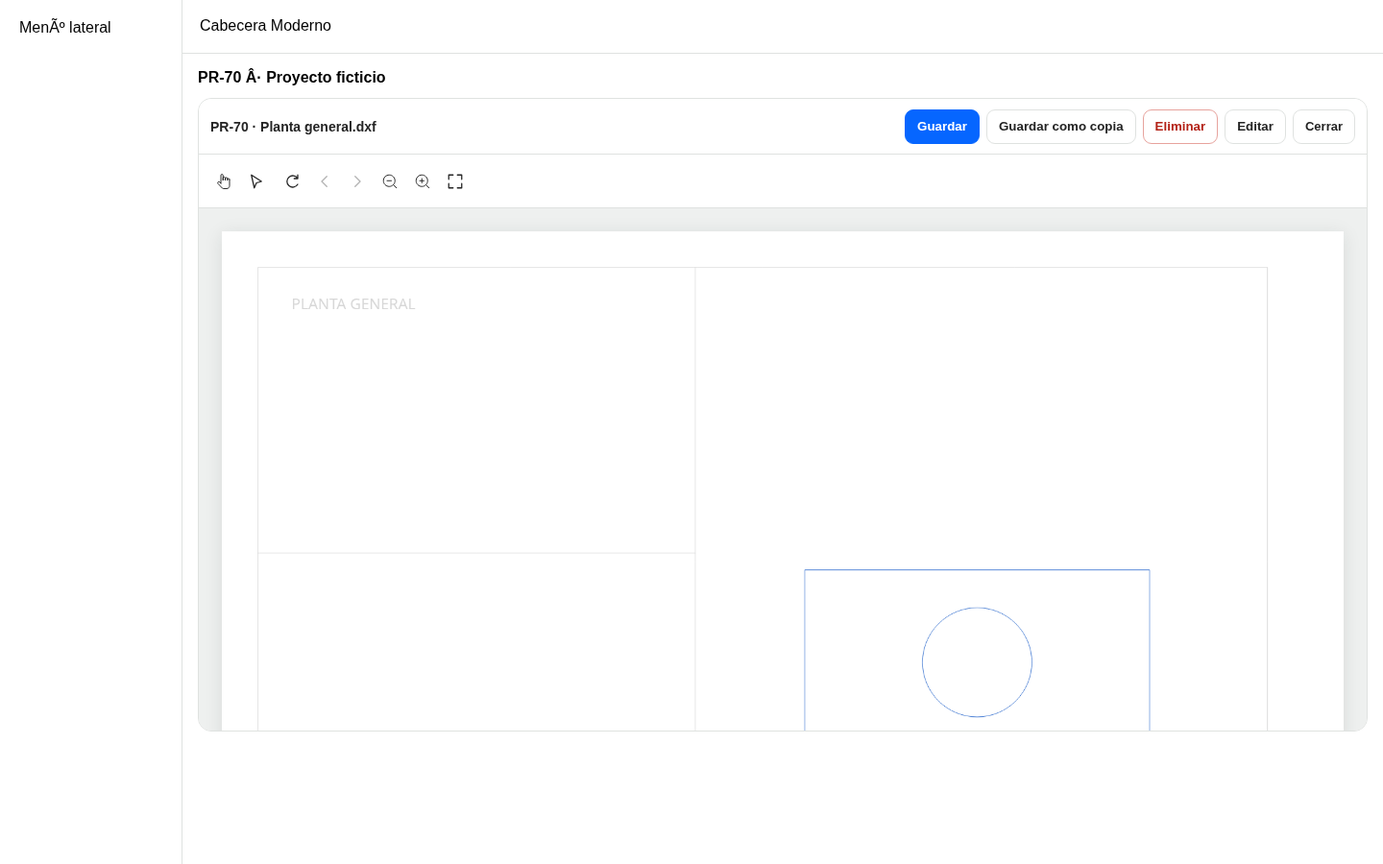
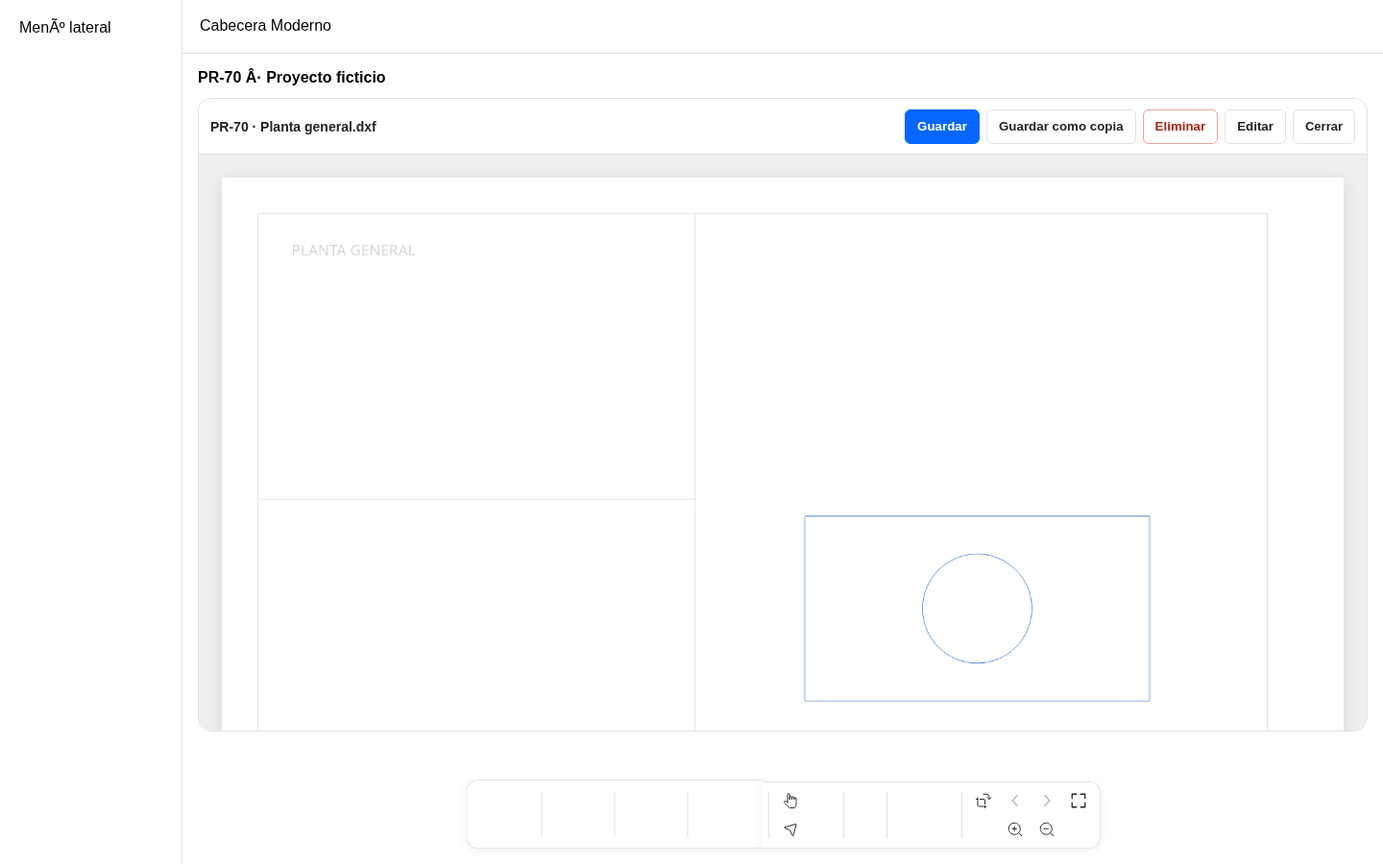
Integrar herramientas de planos en el dock

diff --git a/app/plan-editor.js b/app/plan-editor.js
@@ -48,10 +48,14 @@ var ModernoPlanEditor=(()=>{
  }
  async function mount(root,{document:doc,model,onError=()=>{},readOnly=Boolean(doc.readOnly),products=[]}){
   model.check();let page=1,zoom=1,tool=null,draft=null,pointer=null,closed=false,sequence=0,busy=false,pendingTextPoint=null,pendingCommentPoint=null,pendingTagPoint=null;const listeners=[],rotations=new Map(),touches=new Map(),images=new Map(),transientTimers=new Set();let gesture=null,photoBusy=false,photoSequence=0,thumbnailQueue=Promise.resolve();
-  root.classList.add('plan-editor');root.classList.toggle('is-readonly',readOnly);root.innerHTML=`<h2>Plano</h2><div class="plan-viewer-bar"><div class="plan-toolbox"><div class="plan-palette" role="group" aria-label="Color y grosor"></div><div class="plan-toolbar" role="group" aria-label="Herramientas"></div></div><div class="plan-toolbar plan-navigation" role="group" aria-label="Navegación, zoom y descarga"></div></div><textarea class="plan-inline-text" aria-label="Texto en el plano" placeholder="Escribe aquí" maxlength="1000" hidden></textarea><div class="plan-viewport" tabindex="0" aria-label="Área del plano"><div class="plan-paper"><div class="plan-sheet"><canvas></canvas><canvas tabindex="0" aria-label="Lienzo de anotación"></canvas><svg class="plan-pointer-layer" viewBox="0 0 100 100" preserveAspectRatio="none" aria-hidden="true"></svg></div></div></div><aside class="plan-info-panel" id="plan-info-panel" aria-label="Panel del plano" aria-hidden="true" inert><header><strong data-panel-title>Comentarios</strong><button type="button" class="plan-info-close" aria-label="Cerrar panel">×</button></header><form class="plan-comment-composer" hidden><label for="plan-comment-text">Comentario</label><textarea id="plan-comment-text" maxlength="1000" placeholder="Escribe un comentario"></textarea><div><button type="button" class="btn btn-ghost" data-comment-cancel>Cancelar</button><button type="submit" class="btn btn-dark">Añadir comentario</button></div></form><div class="plan-comments-list" role="list" aria-label="Comentarios del plano"></div><div class="plan-products-list" role="listbox" aria-label="Productos del proyecto" hidden></div></aside><p class="plan-status" role="status" aria-live="polite"></p>`;
-  const $=s=>root.querySelector(s),toolbar=$('.plan-toolbar'),nav=$('.plan-navigation'),base=$('canvas'),overlay=$('canvas+canvas'),paper=$('.plan-paper'),sheet=$('.plan-sheet'),viewport=$('.plan-viewport'),status=$('.plan-status'),text=$('.plan-inline-text'),pointerLayer=$('.plan-pointer-layer'),infoPanel=$('.plan-info-panel'),commentsList=$('.plan-comments-list'),productsList=$('.plan-products-list'),commentForm=$('.plan-comment-composer'),commentText=$('#plan-comment-text'),panelTitle=$('[data-panel-title]');
+  root.classList.add('plan-editor');root.classList.toggle('is-readonly',readOnly);root.innerHTML=`<h2>Plano</h2><div class="plan-viewer-bar" aria-label="Herramientas del plano"><div class="plan-toolbox"><div class="plan-tool-group plan-palette" role="group" aria-label="Color y grosor"></div><span class="plan-tool-separator" role="separator" aria-orientation="vertical"></span><div class="plan-tool-group plan-tools-primary" role="group" aria-label="Selección y texto"></div><span class="plan-tool-separator" role="separator" aria-orientation="vertical"></span><div class="plan-tool-group plan-tools-comments" role="group" aria-label="Comentarios y etiquetas"></div><span class="plan-tool-separator" role="separator" aria-orientation="vertical"></span><div class="plan-tool-group plan-tools-history" role="group" aria-label="Historial y borrado"></div><span class="plan-tool-separator" role="separator" aria-orientation="vertical"></span><div class="plan-tool-group plan-navigation" role="group" aria-label="Páginas, zoom y descarga"></div></div></div><textarea class="plan-inline-text" aria-label="Texto en el plano" placeholder="Escribe aquí" maxlength="1000" hidden></textarea><div class="plan-viewport" tabindex="0" aria-label="Área del plano"><div class="plan-paper"><div class="plan-sheet"><canvas></canvas><canvas tabindex="0" aria-label="Lienzo de anotación"></canvas><svg class="plan-pointer-layer" viewBox="0 0 100 100" preserveAspectRatio="none" aria-hidden="true"></svg></div></div></div><aside class="plan-info-panel" id="plan-info-panel" aria-label="Panel del plano" aria-hidden="true" inert><header><strong data-panel-title>Comentarios</strong><button type="button" class="plan-info-close" aria-label="Cerrar panel">×</button></header><form class="plan-comment-composer" hidden><label for="plan-comment-text">Comentario</label><textarea id="plan-comment-text" maxlength="1000" placeholder="Escribe un comentario"></textarea><div><button type="button" class="btn btn-ghost" data-comment-cancel>Cancelar</button><button type="submit" class="btn btn-dark">Añadir comentario</button></div></form><div class="plan-comments-list" role="list" aria-label="Comentarios del plano"></div><div class="plan-products-list" role="listbox" aria-label="Productos del proyecto" hidden></div></aside><p class="plan-status" role="status" aria-live="polite"></p>`;
+  const $=s=>root.querySelector(s),bar=$('.plan-viewer-bar'),toolbar=$('.plan-tools-primary'),commentTools=$('.plan-tools-comments'),historyTools=$('.plan-tools-history'),nav=$('.plan-navigation'),base=$('canvas'),overlay=$('canvas+canvas'),paper=$('.plan-paper'),sheet=$('.plan-sheet'),viewport=$('.plan-viewport'),status=$('.plan-status'),text=$('.plan-inline-text'),pointerLayer=$('.plan-pointer-layer'),infoPanel=$('.plan-info-panel'),commentsList=$('.plan-comments-list'),productsList=$('.plan-products-list'),commentForm=$('.plan-comment-composer'),commentText=$('#plan-comment-text'),panelTitle=$('[data-panel-title]');
   const listen=(el,event,fn,options)=>{el.addEventListener(event,fn,options);listeners.push(()=>el.removeEventListener(event,fn,options));};
   const report=e=>{status.textContent=e.message||String(e);onError(e);};
+  const projectDock=window.document.querySelector('.project-dock'),originalDockLeft=projectDock?.style.left||'',originalDockTransition=projectDock?.style.transition||'';
+  function positionDock(){const bounds=root.getBoundingClientRect(),dockWidth=projectDock?.offsetWidth||0;bar.style.width='';bar.style.maxWidth=Math.max(0,bounds.width-16)+'px';const barWidth=Math.min(bar.scrollWidth,bounds.width-16),combined=dockWidth+barWidth;if(projectDock&&combined<=bounds.width-16){const start=bounds.left+(bounds.width-combined)/2;projectDock.style.left=start+dockWidth/2+'px';bar.style.left=start+dockWidth-1+'px';bar.classList.remove('is-detached-compact');}else{bar.style.left=bounds.left+8+'px';bar.style.width=Math.max(0,bounds.width-16)+'px';bar.classList.add('is-detached-compact');}}
+  function enterDock(){window.document.body.classList.add('plan-editor-active');if(projectDock)projectDock.style.transition='left .22s ease';positionDock();requestAnimationFrame(()=>requestAnimationFrame(()=>bar.classList.add('is-mounted')));}
+  async function leaveDock(){bar.classList.remove('is-mounted');bar.classList.add('is-leaving');if(projectDock){projectDock.style.left=originalDockLeft;projectDock.style.transition=originalDockTransition;}window.document.body.classList.remove('plan-editor-active');if(!window.matchMedia('(prefers-reduced-motion: reduce)').matches)await new Promise(resolve=>setTimeout(resolve,220));}
   const paths={
    'Selector':'<path d="m5 3 14 9-7 2-3 7-4-18Z"/>',
    'Comentarios':'<path d="M4 4h16v12H9l-5 5V4Z M8 8h8 M8 12h5"/>',
@@ -79,21 +83,26 @@ var ModernoPlanEditor=(()=>{
    'Ajustar':'<path d="M9 3H3v6 M15 3h6v6 M3 15v6h6 M21 15v6h-6"/>',
    'Exportar PDF':'<path d="M12 3v12 m-5-5 5 5 5-5 M4 16v5h16v-5"/>'
   };
-  const iconFiles={'Lápiz':'Dibujar.svg','Flecha':'Flecha.svg','Desplazar':'Desplazar.svg','Comentarios':'Comentar.svg','Panel de comentarios':'Comentar.svg','Alejar':'zoom-out.svg','Acercar':'zoom-in.svg'};
-  function button(label,fn,parent=toolbar){const b=window.document.createElement('button'),asset=iconFiles[label];b.type='button';b.setAttribute('aria-label',label);b.title=label;b.className='plan-icon-button';b.innerHTML=asset?'<img src="/brand/icons/plan-viewer/'+asset+'?v=202" alt="" aria-hidden="true">':'<svg viewBox="0 0 24 24" fill="none" stroke="currentColor" stroke-width="1.7" stroke-linecap="round" stroke-linejoin="round" aria-hidden="true">'+(paths[label]||'')+'</svg>';listen(b,'click',async()=>{try{if(pointer!==null||touches.size||photoBusy)throw Error('Termina el trazo antes de cambiar de herramienta');await fn();}catch(e){report(e);}});parent.append(b);return b;}
+  const iconFiles={'Color':'Selector de Color.svg','Lápiz':'Dibujar.svg','Flecha':'Flecha.svg','Desplazar':'Desplazar.svg','Selector':'Selector.svg','Texto':'Texto.svg','Comentario':'Comentar.svg','Etiqueta de producto':'Etiqueta.svg','Borrador':'Borrar.svg','Girar 90°':'Girar.svg','Alejar':'zoom-out.svg','Acercar':'zoom-in.svg','Exportar PDF':'Descargar.svg'};
+  function button(label,fn,parent=toolbar){const b=window.document.createElement('button'),asset=iconFiles[label];b.type='button';b.setAttribute('aria-label',label);b.title=label;b.className='plan-icon-button';b.innerHTML=asset?'<img src="/brand/icons/plan-viewer/'+asset+'?v=203" alt="" aria-hidden="true">':'<svg viewBox="0 0 24 24" fill="none" stroke="currentColor" stroke-width="1.7" stroke-linecap="round" stroke-linejoin="round" aria-hidden="true">'+(paths[label]||'')+'</svg>';listen(b,'click',async()=>{try{if(pointer!==null||touches.size||photoBusy)throw Error('Termina el trazo antes de cambiar de herramienta');await fn();}catch(e){report(e);}});parent.append(b);return b;}
   function chooseTool(key){tool=tool===key?null:key;draft=null;pendingTextPoint=null;pendingCommentPoint=null;pendingTagPoint=null;text.hidden=true;redraw();}
-  const toolButtons={};(readOnly?['pan','selector']:['pan','selector','arrow','text','note','tag','erase']).forEach(key=>toolButtons[key]=button(labels[key],()=>chooseTool(key)));
+  const toolButtons={};(readOnly?['pan','selector']:['pan','selector','arrow','text']).forEach(key=>toolButtons[key]=button(labels[key],()=>chooseTool(key),toolbar));
+  if(!readOnly){for(const key of ['note','tag'])toolButtons[key]=button(labels[key],()=>chooseTool(key),commentTools);}
   const comments=toolButtons.note||null,tagButton=toolButtons.tag||null;
-  const palette=$('.plan-palette'),color=window.document.createElement('input');color.type='color';color.value='#242424';color.setAttribute('aria-label','Color');color.title='Color';if(!readOnly)palette.append(color);
-  const widthLabel=window.document.createElement('label');widthLabel.className='plan-width-label';widthLabel.textContent='Grosor';const width=window.document.createElement('input');width.type='range';width.min=1;width.max=12;width.value=3;width.setAttribute('aria-label','Grosor');widthLabel.append(width);if(!readOnly)palette.append(widthLabel);
-  const undo=readOnly?null:button('Deshacer',()=>{model.undo();redraw();}),redo=readOnly?null:button('Rehacer',()=>{model.redo();redraw();});
+  const palette=$('.plan-palette'),color=window.document.createElement('input'),alpha=window.document.createElement('input'),colorPanel=window.document.createElement('div');color.type='color';color.value='#242424';color.setAttribute('aria-label','Color personalizado');color.title='Color personalizado';alpha.type='range';alpha.min=0;alpha.max=100;alpha.value=100;alpha.setAttribute('aria-label','Opacidad');colorPanel.className='plan-color-panel';colorPanel.hidden=true;colorPanel.innerHTML='<strong>Color</strong><div class="plan-color-swatches" aria-label="Colores predefinidos"></div><label>Personalizado</label><label>Opacidad</label>';const swatches=colorPanel.querySelector('.plan-color-swatches'),swatchValues=['#ef4444','#f97316','#eab308','#22c55e','#06b6d4','#3b82f6','#8b5cf6','#ec4899'];let colorButton=null;
+  const syncColor=()=>{colorButton?.style.setProperty('--plan-selected-color',color.value);};
+  const currentColor=()=>color.value+(Number(alpha.value)<100?Math.round(Number(alpha.value)*2.55).toString(16).padStart(2,'0'):'');
+  if(!readOnly){colorButton=button('Color',()=>{colorPanel.hidden=!colorPanel.hidden;colorButton.setAttribute('aria-expanded',String(!colorPanel.hidden));},palette);colorButton.classList.add('plan-color-trigger');colorButton.setAttribute('aria-haspopup','dialog');colorButton.setAttribute('aria-expanded','false');for(const value of swatchValues){const swatch=window.document.createElement('button');swatch.type='button';swatch.className='plan-color-swatch';swatch.style.setProperty('--swatch',value);swatch.setAttribute('aria-label','Color '+value);listen(swatch,'click',()=>{color.value=value;syncColor();});swatches.append(swatch);}colorPanel.insertBefore(color,colorPanel.querySelectorAll('label')[1]);colorPanel.append(alpha);palette.append(colorPanel);listen(color,'input',syncColor);listen(window.document,'pointerdown',event=>{if(!colorPanel.hidden&&!palette.contains(event.target)){colorPanel.hidden=true;colorButton.setAttribute('aria-expanded','false');}});syncColor();}
+  const widthLabel=window.document.createElement('label');widthLabel.className='plan-width-label';widthLabel.innerHTML='<span>Grosor</span>';const width=window.document.createElement('input');width.type='range';width.min=1;width.max=12;width.value=3;width.step=.5;width.setAttribute('aria-label','Grosor');widthLabel.append(width);if(!readOnly)palette.append(widthLabel);
+  const undo=readOnly?null:button('Deshacer',()=>{model.undo();redraw();},historyTools),redo=readOnly?null:button('Rehacer',()=>{model.redo();redraw();},historyTools);if(!readOnly)toolButtons.erase=button(labels.erase,()=>chooseTool('erase'),historyTools);
   button('Girar 90°',()=>{if(busy)throw Error('Espera a que termine la página');model.check();rotations.set(page,((rotations.get(page)||0)+1)%4);zoom=1;size();redraw();status.textContent='Página girada · Se incluirá en el PDF exportado';},nav);
   const previous=button('Página anterior',()=>changePage(page-1),nav),next=button('Página siguiente',()=>changePage(page+1),nav);
-  button('Alejar',()=>{zoom=Math.max(.25,zoom-.25);size();},nav);button('Acercar',()=>{zoom=Math.min(4,zoom+.25);size();},nav);button('Ajustar',()=>{zoom=1;size();},nav);
+  const fit=button('Ajustar',()=>{zoom=1;size();},nav);button('Acercar',()=>{zoom=Math.min(4,zoom+.25);size();},nav);button('Alejar',()=>{zoom=Math.max(.25,zoom-.25);size();},nav);
   async function exportPdfBlob(){if(readOnly)throw Error('Este plano es de solo lectura');if(busy)throw Error('Espera a que termine la página');model.check();const record=model.snapshot(),angles=new Map(rotations),pages=[];let pixels=0,bytes=0;busy=true;
    try{for(let i=1;i<=doc.pages;i++){model.check();status.textContent='Preparando página '+i+' de '+doc.pages;const c=window.document.createElement('canvas');await doc.render(i,c);pixels+=c.width*c.height;if(pixels>100e6)throw Error('Guarda un documento más pequeño (límite de 100 megapíxeles)');draw(c.getContext('2d'),record.annotations.filter(a=>a.page===i),c.width,c.height,images);const t=angles.get(i)||0,output=rotateCanvas(c,t);const blob=await new Promise(r=>output.toBlob(r,'image/jpeg',.92));if(!blob)throw Error('No se pudo preparar el plano');bytes+=blob.size;if(bytes>100*1024*1024)throw Error('El plano preparado es demasiado grande');const dimensions=doc.pageSize?await doc.pageSize(i):null;pages.push({width:output.width,height:output.height,pageWidth:t%2?dimensions?.height:dimensions?.width,pageHeight:t%2?dimensions?.width:dimensions?.height,jpeg:new Uint8Array(await blob.arrayBuffer())});c.width=c.height=0;if(output!==c)output.width=output.height=0;}model.check();return pdf(pages);}finally{busy=false;}
   }
   if(!readOnly)button('Exportar PDF',async()=>{const blob=await exportPdfBlob(),url=URL.createObjectURL(blob),a=window.document.createElement('a');a.href=url;a.download='plano-anotado.pdf';a.click();setTimeout(()=>URL.revokeObjectURL(url),1000);status.textContent='PDF exportado';},nav);
+  listen(window,'resize',positionDock);enterDock();const lifecycle=new MutationObserver(()=>{if(root.isConnected||closed)return;closed=true;sequence++;void leaveDock();listeners.forEach(fn=>fn());cleanup();void doc.close?.();});lifecycle.observe(window.document.body,{childList:true,subtree:true});listeners.push(()=>lifecycle.disconnect());
   function showInfo(open,kind='comments'){infoPanel.classList.toggle('is-open',open);infoPanel.inert=!open;infoPanel.setAttribute('aria-hidden',String(!open));panelTitle.textContent=kind==='products'?'Elegir producto':'Comentario';commentsList.hidden=kind!=='comments';productsList.hidden=kind!=='products';commentForm.hidden=kind!=='comments'||!pendingCommentPoint;size();}
   listen($('.plan-info-close'),'click',()=>{pendingCommentPoint=null;pendingTagPoint=null;showInfo(false);});showInfo(false);
   async function loadImages(){for(const a of model.items.filter(a=>a.type==='image')){model.check();if(images.has(a.imageData))continue;const image=new Image();image.src=a.imageData;await image.decode();if(closed)return;model.check();const bitmap=await createImageBitmap(image);if(bitmap.width*bitmap.height>20e6){bitmap.close();throw Error('Foto demasiado grande');}images.set(a.imageData,bitmap);}}
@@ -123,12 +132,12 @@ var ModernoPlanEditor=(()=>{
   function pointAt(e){return sourcePoint(ModernoPlanAnnotations.point(e.clientX,e.clientY,overlay.getBoundingClientRect()),rotations.get(page)||0);}
   let commentsSignature='';
   function syncComments(){const notes=model.items.filter(a=>a.type==='note'),signature=JSON.stringify(notes.map(a=>[a.id,a.page,a.text]));if(signature===commentsSignature)return;commentsSignature=signature;commentsList.replaceChildren();notes.forEach(note=>{const b=window.document.createElement('button'),label=window.document.createElement('span'),where=window.document.createElement('small');b.type='button';b.setAttribute('role','listitem');label.textContent=note.text;where.textContent='Página '+note.page;b.append(label,where);b.onclick=()=>{showInfo(true,'comments');changePage(note.page).catch(report);};commentsList.append(b);});if(!notes.length){const empty=window.document.createElement('p');empty.className='plan-panel-empty';empty.textContent='Aún no hay comentarios.';commentsList.append(empty);}}
-  productsList.replaceChildren();products.forEach(product=>{const b=window.document.createElement('button'),name=window.document.createElement('strong'),meta=window.document.createElement('small');b.type='button';b.setAttribute('role','option');name.textContent=product.name;meta.textContent=[product.room,product.reference].filter(Boolean).join(' · ');b.append(name,meta);listen(b,'click',()=>{if(!pendingTagPoint)return;model.add({id:crypto.randomUUID(),page,type:'tag',color:color.value,width:Number(width.value),points:[pendingTagPoint],text:product.name,product:{id:String(product.id),name:product.name,room:product.room||'',reference:product.reference||''},createdAt:new Date().toISOString()});pendingTagPoint=null;tool=null;showInfo(false);redraw();status.textContent='Etiqueta de producto añadida';});productsList.append(b);});
+  productsList.replaceChildren();products.forEach(product=>{const b=window.document.createElement('button'),name=window.document.createElement('strong'),meta=window.document.createElement('small');b.type='button';b.setAttribute('role','option');name.textContent=product.name;meta.textContent=[product.room,product.reference].filter(Boolean).join(' · ');b.append(name,meta);listen(b,'click',()=>{if(!pendingTagPoint)return;model.add({id:crypto.randomUUID(),page,type:'tag',color:currentColor(),width:Number(width.value),points:[pendingTagPoint],text:product.name,product:{id:String(product.id),name:product.name,room:product.room||'',reference:product.reference||''},createdAt:new Date().toISOString()});pendingTagPoint=null;tool=null;showInfo(false);redraw();status.textContent='Etiqueta de producto añadida';});productsList.append(b);});
   if(!products.length){const empty=window.document.createElement('p');empty.className='plan-panel-empty';empty.textContent='No hay productos en las listas de la compra de este proyecto.';productsList.append(empty);}
   function placeTextEditor(point,event){pendingTextPoint=point;text.hidden=false;text.value='';const rootRect=root.getBoundingClientRect();text.style.left=Math.max(8,Math.min(rootRect.width-230,event.clientX-rootRect.left+8))+'px';text.style.top=Math.max(58,Math.min(rootRect.height-100,event.clientY-rootRect.top+8))+'px';requestAnimationFrame(()=>text.focus());}
-  function commitText(){const value=text.value.trim();if(value&&pendingTextPoint)model.add({id:crypto.randomUUID(),page,type:'text',color:color.value,width:Number(width.value),points:[pendingTextPoint],text:value,createdAt:new Date().toISOString()});pendingTextPoint=null;text.value='';text.hidden=true;tool=null;redraw();}
+  function commitText(){const value=text.value.trim();if(value&&pendingTextPoint)model.add({id:crypto.randomUUID(),page,type:'text',color:currentColor(),width:Number(width.value),points:[pendingTextPoint],text:value,createdAt:new Date().toISOString()});pendingTextPoint=null;text.value='';text.hidden=true;tool=null;redraw();}
   listen(text,'keydown',event=>{if(event.key==='Escape'){event.preventDefault();pendingTextPoint=null;text.hidden=true;tool=null;redraw();}else if(event.key==='Enter'&&!event.shiftKey){event.preventDefault();commitText();}});listen(text,'blur',()=>{if(pendingTextPoint)commitText();});
-  listen(commentForm,'submit',event=>{event.preventDefault();const value=commentText.value.trim();if(!pendingCommentPoint||!value)return;model.add({id:crypto.randomUUID(),page,type:'note',color:color.value,width:Number(width.value),points:[pendingCommentPoint],text:value,createdAt:new Date().toISOString()});pendingCommentPoint=null;commentText.value='';commentForm.hidden=true;tool=null;redraw();status.textContent='Comentario añadido';});
+  listen(commentForm,'submit',event=>{event.preventDefault();const value=commentText.value.trim();if(!pendingCommentPoint||!value)return;model.add({id:crypto.randomUUID(),page,type:'note',color:currentColor(),width:Number(width.value),points:[pendingCommentPoint],text:value,createdAt:new Date().toISOString()});pendingCommentPoint=null;commentText.value='';commentForm.hidden=true;tool=null;redraw();status.textContent='Comentario añadido';});
   listen($('[data-comment-cancel]'),'click',()=>{pendingCommentPoint=null;commentText.value='';tool=null;showInfo(false);redraw();});
   function redraw(){if(closed)return;if(root.dataset.cursorPage!==String(page)||root.dataset.cursorRotation!==String(rotations.get(page)||0)){root.dataset.cursorPage=String(page);root.dataset.cursorRotation=String(rotations.get(page)||0);window.document.dispatchEvent(new Event('moderno:cursor-context'));}overlay.getContext('2d').clearRect(0,0,overlay.width,overlay.height);draw(overlay.getContext('2d'),model.items.filter(a=>a.page===page).concat(draft&&!draft.pan&&!draft.selector?[draft]:[]),overlay.width,overlay.height,images);comments?.setAttribute('aria-pressed',tool==='note');tagButton?.setAttribute('aria-pressed',tool==='tag');Object.entries(toolButtons).forEach(([k,b])=>b.setAttribute('aria-pressed',k===tool));if(undo)undo.disabled=!model.undoStack.length;if(redo)redo.disabled=!model.redoStack.length;previous.disabled=page<=1;next.disabled=page>=doc.pages;syncComments();}
   async function changePage(n){if(n<1||n>doc.pages||busy)return;if(pointer!==null||touches.size||photoBusy)throw Error('Termina el trazo antes de cambiar de página');model.check();busy=true;const token=++sequence;
@@ -144,7 +153,7 @@ var ModernoPlanEditor=(()=>{
    if(tool==='text'){pointer=null;placeTextEditor(p,e);return;}
    if(tool==='note'){pointer=null;pendingCommentPoint=p;showInfo(true,'comments');commentForm.hidden=false;requestAnimationFrame(()=>commentText.focus());return;}
    if(tool==='tag'){pointer=null;pendingTagPoint=p;showInfo(true,'products');return;}
-   draft={id:crypto.randomUUID(),page,type:tool,color:color.value,width:Number(width.value),points:[p],text:'',createdAt:new Date().toISOString()};redraw();
+   draft={id:crypto.randomUUID(),page,type:tool,color:currentColor(),width:Number(width.value),points:[p],text:'',createdAt:new Date().toISOString()};redraw();
   }catch(e){pointer=null;report(e);}});
   listen(overlay,'pointermove',e=>{try{
    if(touches.has(e.pointerId)){model.check();touchMove(e);e.preventDefault();return;}if(e.pointerId!==pointer||!draft)return;
@@ -159,9 +168,9 @@ var ModernoPlanEditor=(()=>{
   listen(root,'keydown',e=>{if(e.key==='Escape'&&infoPanel.classList.contains('is-open')){e.preventDefault();e.stopPropagation();pendingCommentPoint=null;pendingTagPoint=null;showInfo(false);return;}if(/INPUT|TEXTAREA|SELECT/.test(e.target.tagName))return;try{if((e.ctrlKey||e.metaKey)&&e.key.toLowerCase()==='z'){e.preventDefault();e.shiftKey?model.redo():model.undo();redraw();}}catch(error){report(error);}});
   listen(viewport,'wheel',e=>{if(!e.ctrlKey&&!e.metaKey)return;e.preventDefault();zoom=Math.max(.25,Math.min(4,zoom+(e.deltaY<0?.15:-.15)));size();},{passive:false});
   listen(window,'beforeunload',e=>{if(!readOnly&&(model.dirty||(draft&&!draft.pan&&!draft.selector))){e.preventDefault();e.returnValue='';}});
-  const resize=new ResizeObserver(size);resize.observe(viewport);resize.observe($('.plan-toolbox'));resize.observe(text);
-  try{await loadImages();await changePage(1);}catch(error){closed=true;listeners.forEach(fn=>fn());resize.disconnect();cleanup();await doc.close?.();throw error;}
-  return {exportPdf:exportPdfBlob,markSaved(){model.dirty=false;model.undoStack=[];model.redoStack=[];redraw();},async close(){if(model.dirty||(draft&&!draft.pan&&!draft.selector))throw Error('Hay anotaciones pendientes: exporta o guarda antes de cerrar');closed=true;sequence++;listeners.forEach(fn=>fn());resize.disconnect();cleanup();await doc.close?.();root.replaceChildren();},discard:async()=>{closed=true;sequence++;listeners.forEach(fn=>fn());resize.disconnect();cleanup();await doc.close?.();root.replaceChildren();}};
+  const resize=new ResizeObserver(()=>{size();positionDock();});resize.observe(viewport);resize.observe($('.plan-toolbox'));resize.observe(text);
+  try{await loadImages();await changePage(1);}catch(error){closed=true;await leaveDock();listeners.forEach(fn=>fn());resize.disconnect();cleanup();await doc.close?.();throw error;}
+  return {exportPdf:exportPdfBlob,markSaved(){model.dirty=false;model.undoStack=[];model.redoStack=[];redraw();},async close(){if(model.dirty||(draft&&!draft.pan&&!draft.selector))throw Error('Hay anotaciones pendientes: exporta o guarda antes de cerrar');closed=true;sequence++;await leaveDock();listeners.forEach(fn=>fn());resize.disconnect();cleanup();await doc.close?.();root.replaceChildren();},discard:async()=>{closed=true;sequence++;await leaveDock();listeners.forEach(fn=>fn());resize.disconnect();cleanup();await doc.close?.();root.replaceChildren();}};
  }
  return {openFile,mount,draw,pdf,sourcePoint};
 })();

diff --git a/app/plan-editor.css b/app/plan-editor.css
@@ -100,3 +100,20 @@
 .plan-status{top:64px;right:12px}.plan-editor:has(.plan-info-panel.is-open) .plan-status{right:332px}
 .project-plan-alert-dialog{position:fixed;inset:0;width:min(410px,calc(100vw - 32px));max-height:calc(100dvh - 32px);margin:auto;padding:22px;border:1px solid var(--ui-line,#d8d3cc);border-radius:16px;background:var(--white,#fff);color:var(--ink,#242424);box-shadow:0 24px 70px #0004}.project-plan-alert-dialog::backdrop{background:#0006;backdrop-filter:blur(3px)}.project-plan-alert-header{display:flex;align-items:flex-start;gap:14px}.project-plan-alert-media{display:grid;place-items:center;flex:0 0 44px;width:44px;height:44px;border-radius:12px;background:#fef3f2;color:#b42318}.project-plan-alert-media svg{width:21px;height:21px}.project-plan-alert-dialog h3{margin:2px 0 7px;font-size:18px}.project-plan-alert-dialog p{margin:0;color:var(--ink-soft,#666);font-size:13px;line-height:1.55}.project-plan-alert-footer{display:flex;justify-content:flex-end;gap:8px;margin-top:22px}.project-plan-alert-footer .btn{min-height:38px;border-radius:9px}.project-plan-alert-delete{border:1px solid #b42318;background:#b42318;color:#fff}.project-plan-alert-delete:hover{background:#912018;border-color:#912018}
 @media(max-width:900px){.project-plan-dialog{height:calc(100dvh - 180px);min-height:480px}.project-plan-dialog>header{align-items:flex-start;flex-direction:column}.project-plan-dialog>header .plan-dialog-actions{width:100%;margin:0;overflow-x:auto}.plan-editor:has(.plan-info-panel.is-open) .plan-viewport{right:0}.plan-info-panel{width:min(340px,92%)}.plan-status,.plan-editor:has(.plan-info-panel.is-open) .plan-status{right:10px}}
+
+/* El editor prolonga el dock del proyecto con una sola caja de herramientas. */
+.project-plan-dialog>header .btn,.project-plan-alert-footer .btn{border-radius:6px}
+.plan-viewer-bar{position:fixed;z-index:71;right:auto;top:auto;bottom:calc(16px + env(safe-area-inset-bottom,0px));width:max-content;height:70px;max-width:calc(100vw - 24px);padding:4px 6px;border:1px solid #e4e4e4;border-left-color:transparent;border-radius:0 12px 12px 0;background:#fff;box-shadow:0 2px 10px #0000000f;overflow-x:auto;overflow-y:visible;opacity:0;transform:translateX(46px);transition:transform .22s cubic-bezier(.2,.75,.25,1),opacity .18s ease;scrollbar-width:none}
+.plan-viewer-bar::-webkit-scrollbar{display:none}.plan-viewer-bar.is-mounted{opacity:1;transform:translateX(0)}.plan-viewer-bar.is-leaving{opacity:0;transform:translateX(54px);pointer-events:none}.plan-viewer-bar.is-detached-compact{border-left-color:#e4e4e4;border-radius:12px}
+.plan-toolbox{display:flex;align-items:center;gap:6px;width:max-content;height:60px;min-width:0;margin:0;padding:0;border:0;border-radius:0;background:transparent;box-shadow:none;transform:none}
+.plan-tool-group{display:grid;grid-auto-flow:row;grid-template-rows:repeat(2,30px);align-items:center;gap:0 1px;flex:none;padding:0;border:0;overflow:visible}.plan-tool-separator{display:block;flex:0 0 1px;width:1px;height:48px;background:#e2e2df}
+.plan-tools-primary{grid-template-columns:repeat(2,32px)}.plan-tools-primary>:nth-child(1){grid-column:1;grid-row:1}.plan-tools-primary>:nth-child(2){grid-column:1;grid-row:2}.plan-tools-primary>:nth-child(3){grid-column:2;grid-row:1}.plan-tools-primary>:nth-child(4){grid-column:2;grid-row:2}
+.plan-tools-comments{grid-template-columns:32px}.plan-tools-history{grid-template-columns:repeat(2,32px)}.plan-tools-history>:nth-child(3){grid-column:1 / 3;justify-self:center}.plan-navigation{position:static;display:grid;grid-template-columns:repeat(4,32px);grid-template-rows:repeat(2,30px);gap:0 1px;max-width:none;padding:0;border:0;border-radius:0;background:transparent;box-shadow:none;overflow:visible}.plan-navigation>:nth-child(5){grid-column:2}.plan-navigation>:nth-child(6){grid-column:3}.plan-navigation>:nth-child(7){grid-column:4}
+.plan-editor .plan-icon-button{position:relative;display:grid;place-items:center;flex:0 0 32px;width:32px;height:30px;min-height:30px;margin:0;padding:6px;border:0;border-radius:7px;background:transparent;color:#242424}.plan-editor .plan-icon-button:hover{background:#f1f1ee}.plan-editor .plan-icon-button[aria-pressed=true]{background:#f1f3f5;box-shadow:inset 0 0 0 1px #e5e7eb}.plan-icon-button svg,.plan-icon-button img{display:block;width:18px;height:18px;object-fit:contain}.plan-icon-button:disabled{opacity:.42}
+.plan-palette{position:relative;grid-template-columns:84px;padding:0;border:0}.plan-palette>.plan-color-trigger{grid-row:1;justify-self:center}.plan-color-trigger::after{content:"";position:absolute;right:4px;bottom:4px;width:7px;height:7px;border:1px solid #fff;border-radius:50%;background:var(--plan-selected-color,#242424);box-shadow:0 0 0 1px #24242433}
+.plan-width-label{grid-row:2;display:grid;grid-template-columns:auto 1fr;align-items:center;gap:5px;width:84px;height:30px;padding:0 3px;font-size:10px;color:var(--ink-soft,#666);white-space:nowrap}.plan-editor .plan-width-label input[type=range]{width:48px;min-width:48px;height:12px;margin:0;padding:0;background:transparent;accent-color:#242424}.plan-width-label input[type=range]::-webkit-slider-runnable-track{height:2px;border-radius:2px;background:#bfc2c1}.plan-width-label input[type=range]::-webkit-slider-thumb{width:10px;height:10px;margin-top:-4px}.plan-width-label input[type=range]::-moz-range-track{height:2px;border-radius:2px;background:#bfc2c1}.plan-width-label input[type=range]::-moz-range-thumb{width:10px;height:10px;border:0;border-radius:50%;background:#242424}
+.plan-color-panel{position:absolute;left:0;bottom:calc(100% + 10px);z-index:90;display:grid;grid-template-columns:1fr auto;gap:10px 12px;width:250px;padding:14px;border:1px solid #e4e4e4;border-radius:10px;background:#fff;box-shadow:0 12px 34px #0002;color:#242424}.plan-color-panel[hidden]{display:none}.plan-color-panel>strong,.plan-color-swatches{grid-column:1 / -1}.plan-color-panel>strong{font-size:13px}.plan-color-panel>label{align-self:center;font-size:11px;color:#666}.plan-color-swatches{display:grid;grid-template-columns:repeat(8,1fr);gap:5px}.plan-color-swatch{width:22px;height:22px;padding:0;border:1px solid #0001;border-radius:6px;background:var(--swatch)}.plan-color-swatch:hover{outline:2px solid #242424;outline-offset:1px}.plan-color-panel input[type=color]{width:42px;height:30px;min-height:30px;padding:2px;border:1px solid #dfe2e0;border-radius:6px}.plan-color-panel input[type=range]{width:120px;min-width:120px;margin:0}
+.plan-viewport{top:0;padding-bottom:104px}.plan-pages-panel,.plan-info-panel{top:0}.plan-selection{top:12px}.plan-status{top:8px}.plan-editor textarea{top:12px}.plan-editor .project-plan-notice{bottom:94px}
+html body:not(.portalmode).plan-editor-active .project-tabs.project-dock{border-radius:12px 0 0 12px;border-right-color:transparent;box-shadow:0 2px 10px #0000000f}
+@media(max-width:900px){.plan-viewer-bar.is-detached-compact{bottom:calc(92px + env(safe-area-inset-bottom,0px))}.plan-viewport{padding-bottom:178px}}
+@media(prefers-reduced-motion:reduce){.plan-viewer-bar{transition:none}.plan-viewer-bar,.plan-viewer-bar.is-mounted,.plan-viewer-bar.is-leaving{transform:none}}

diff --git a/app/index.html b/app/index.html
@@ -1285,13 +1285,13 @@ html body:not(.portalmode) #view .account-icon-button.btn{width:28px!important;m
 <script src="/new-project.js?v=365133"></script>
 <script src="/shopping-export.js?v=365113"></script>
 <script src="/plan-annotations.js?v=36523"></script>
-<script src="/plan-editor.js?v=202.5"></script>
+<script src="/plan-editor.js?v=202.6"></script>
 <script src="/cad-viewer.js?v=202.2"></script>
 <script src="/project-documents.js?v=202.5"></script>
 <script src="/plan-options.js?v=202.5"></script>
 <script src="/plan-gallery.js?v=202.2"></script>
 <link rel="stylesheet" href="/brand/plan-gallery.css?v=202.3">
-<link rel="stylesheet" href="/plan-editor.css?v=202.5">
+<link rel="stylesheet" href="/plan-editor.css?v=202.6">
 <script src="/document-builder.js?v=3604"></script>
 <script src="/library-origin.js?v=3570"></script>
 <script src="/library-brands.js?v=3617"></script>

diff --git a/scripts/integrated-plan-viewer-browser.test.py b/scripts/integrated-plan-viewer-browser.test.py
@@ -1,7 +1,7 @@
 """Offline visual proof for #202. Uses only fictitious PDF/DXF files."""
 import pathlib
 import sys
-from urllib.parse import urlparse
+from urllib.parse import unquote, urlparse
 from playwright.sync_api import sync_playwright
 
 repo=pathlib.Path(__file__).resolve().parents[1]
@@ -156,13 +156,14 @@ with sync_playwright() as p:
  page=browser.new_page(viewport={'width':1440,'height':900},device_scale_factor=1)
  errors=[];page.on('pageerror',lambda error:errors.append(str(error)))
  def route(r):
-  parsed=urlparse(r.request.url);name=pathlib.PurePosixPath(parsed.path).name
-  if name=='index.html':r.fulfill(body='<meta name="viewport" content="width=device-width"><body><aside id="app-sidebar">Menú lateral</aside><header id="app-header">Cabecera Moderno</header><main><div id="project-heading">PR-70 · Proyecto ficticio</div><section id="project-tab-panel"></section></main></body>',content_type='text/html')
+  parsed=urlparse(r.request.url);name=unquote(pathlib.PurePosixPath(parsed.path).name)
+  if name=='index.html':r.fulfill(body='<meta name="viewport" content="width=device-width"><body><aside id="app-sidebar">Menú lateral</aside><header id="app-header">Cabecera Moderno</header><main><div id="project-heading">PR-70 · Proyecto ficticio</div><section id="project-tab-panel"></section><div class="project-tabs project-dock" role="tablist" aria-label="Secciones del proyecto"><button aria-label="Tareas"></button><button aria-label="Compras"></button><span class="project-tab-separator"></span><button aria-label="Planos"></button><button aria-label="Obra"></button><span class="project-tab-separator"></span><button aria-label="Estudio"></button><button aria-label="Presentaciones"></button><span class="project-tab-separator"></span><button aria-label="Documentos"></button><button aria-label="Ajustes"></button></div></main></body>',content_type='text/html')
   elif name in ['pdf.min.js','pdf.worker.min.js']:r.fulfill(path=str(pdfjs/name),content_type='application/javascript')
   elif parsed.path.startswith('/brand/icons/plan-viewer/') and (repo/'app/brand/icons/plan-viewer'/name).is_file():r.fulfill(path=str(repo/'app/brand/icons/plan-viewer'/name),content_type='image/svg+xml')
   else:r.abort()
  page.route('**/*',route);page.goto('https://planos-prueba.invalid/index.html')
  page.add_style_tag(content=':root{--ink:#242424;--ink-soft:#6d706f;--white:#fff;--bg:#f4f5f4;--card:#ecefed;--ui-line:#dfe2e0}*{box-sizing:border-box}body{margin:0;font-family:Arial,sans-serif;display:grid;grid-template-columns:190px 1fr;grid-template-rows:56px 1fr;height:100vh}#app-sidebar{grid-row:1/3;padding:20px;border-right:1px solid var(--ui-line)}#app-header{padding:18px;border-bottom:1px solid var(--ui-line)}main{padding:16px;min-width:0}#project-heading{padding:0 0 12px;font-weight:700}.btn{border:1px solid var(--ui-line);background:#fff;border-radius:9px;padding:8px 12px;color:var(--ink)}')
+ page.add_style_tag(path=str(repo/'app/brand/project-dock.css'))
  page.add_style_tag(path=str(repo/'app/plan-editor.css'))
  page.add_script_tag(url='https://planos-prueba.invalid/pdf.min.js');page.evaluate("pdfjsLib.GlobalWorkerOptions.workerSrc='https://planos-prueba.invalid/pdf.worker.min.js'")
  for name in ['plan-annotations.js','cad-viewer.js','plan-editor.js']:page.add_script_tag(path=str(repo/'app'/name))
@@ -173,7 +174,9 @@ with sync_playwright() as p:
   window.pdfSource=ModernoPlanEditor.pdf(pages);window.doc=await ModernoPlanEditor.openFile(new File([pdfSource],'PR-70 - Planta general.pdf',{type:'application/pdf'}),{pdfjs:pdfjsLib});window.model=new ModernoPlanAnnotations.Model({reference:{studyId:'moderno-prueba',projectId:'PR-70',fileId:'pdf-ficticio',revisionId:'original'},pages:doc.pages,authorize:()=>true});window.editor=await ModernoPlanEditor.mount(document.querySelector('#viewer'),{document:doc,model,filename:'PR-70 - Planta general.pdf',products:[{id:'producto-ficticio',name:'Sillón de muestra',room:'Salón',reference:'SF-1'}]});
  }""")
  page.wait_for_function("document.querySelector('.plan-paper canvas').width>0");page.wait_for_function("[...document.querySelectorAll('.plan-icon-button img')].every(img=>img.complete&&img.naturalWidth>0)");page.wait_for_timeout(350)
- assert page.locator('.plan-viewer-bar').bounding_box()['y'] < page.locator('.plan-viewport').bounding_box()['y']
+ assert page.locator('.plan-viewer-bar').bounding_box()['y'] > page.locator('.plan-viewport').bounding_box()['y']
+ dock_box=page.locator('.project-dock').bounding_box();tools_box=page.locator('.plan-viewer-bar').bounding_box();assert abs((dock_box['x']+dock_box['width'])-tools_box['x']) < 3
+ assert page.locator('.plan-tool-separator').count()==4 and page.locator('.plan-viewer-bar').evaluate("el=>getComputedStyle(el).opacity")=='1'
  assert page.locator('#app-header').is_visible() and page.locator('#app-sidebar').is_visible() and page.locator('#project-heading').is_visible()
  assert page.get_by_role('button',name='Páginas',exact=True).count()==0
  assert page.get_by_text('Propiedades',exact=True).count()==0 and page.get_by_text('Mediciones',exact=True).count()==0
@@ -183,6 +186,8 @@ with sync_playwright() as p:
  assert page.get_by_role('button',name='Eliminar',exact=True).count()==1 and page.get_by_role('button',name='Editar',exact=True).count()==1 and page.get_by_role('button',name='Cerrar',exact=True).count()==1
  for removed in ['Rectángulo','Círculo','Nota','Lápiz','Resaltador','Panel de comentarios']:
   assert page.get_by_role('button',name=removed,exact=True).count()==0
+ assert 'Selector de Color.svg?v=203' in page.get_by_role('button',name='Color',exact=True).locator('img').get_attribute('src')
+ page.get_by_role('button',name='Color',exact=True).click();assert page.get_by_label('Opacidad',exact=True).is_visible() and page.locator('.plan-color-swatch').count()==8
  page.screenshot(path=str(out/'visor-pdf-202.png'),full_page=True)
  page.evaluate('editor.discard()')
  page.evaluate("""async source=>{shell('PR-70 · Planta general.dxf');window.doc=await ModernoCadViewer.open(new File([source],'PR-70 - Planta general.dxf',{type:'application/dxf'}));window.model=new ModernoPlanAnnotations.Model({reference:{studyId:'moderno-prueba',projectId:'PR-70',fileId:'dxf-ficticio',revisionId:'original'},pages:1,authorize:()=>true});window.editor=await ModernoPlanEditor.mount(document.querySelector('#viewer'),{document:doc,model,filename:'PR-70 - Planta general.dxf',readOnly:true,metadata:doc.metadata});}""",dxf)
@@ -190,9 +195,9 @@ with sync_playwright() as p:
  assert page.get_by_text('Propiedades',exact=True).count()==0 and page.get_by_text('Mediciones',exact=True).count()==0 and page.get_by_text('DXF',exact=True).count()==0
  assert page.get_by_role('button',name='Lápiz',exact=True).count()==0
  assert page.get_by_role('button',name='Desplazar',exact=True).count()==1
- assert page.get_by_role('button',name='Desplazar',exact=True).locator('img').get_attribute('src').endswith('/Desplazar.svg?v=202')
+ assert page.get_by_role('button',name='Desplazar',exact=True).locator('img').get_attribute('src').endswith('/Desplazar.svg?v=203')
  assert page.get_by_role('button',name='Medir',exact=True).count()==0
  page.screenshot(path=str(out/'visor-cad-dxf-202.png'),full_page=True)
  assert not errors,errors
  page.evaluate('editor.discard()');page.close();browser.close()
- print('PASS: visor PDF y DXF integrado, toolbar superior, paneles, capas CAD y solo lectura')
+ print('PASS: visor PDF y DXF integrado, dock inferior animado, paneles y solo lectura')

diff --git a/scripts/plan-editor-redesign-browser.test.py b/scripts/plan-editor-redesign-browser.test.py
@@ -25,7 +25,10 @@ with sync_playwright() as p:
         assert page.get_by_role('button',name=label,exact=True).count()==1, label
     for removed in ['Lápiz','Resaltador','Rectángulo','Círculo','Nota','Páginas','Panel de comentarios','Añadir foto','Hacer foto']:
         assert page.get_by_role('button',name=removed,exact=True).count()==0, removed
-    assert page.get_by_label('Color',exact=True).count()==1
+    assert page.get_by_role('button',name='Color',exact=True).count()==1
+    page.get_by_role('button',name='Color',exact=True).click()
+    assert page.get_by_label('Color personalizado',exact=True).count()==1 and page.get_by_label('Opacidad',exact=True).count()==1
+    assert page.locator('.plan-color-swatch').count()==8
     assert page.get_by_label('Grosor',exact=True).count()==1
     canvas=page.get_by_label('Lienzo de anotación');box=canvas.bounding_box()
     def click_at(x,y): canvas.click(position={'x':box['width']*x,'y':box['height']*y})
@@ -41,5 +44,7 @@ with sync_playwright() as p:
     assert page.evaluate("model.items[2].type==='tag'&&model.items[2].product.id==='fake-product'")
     assert page.locator('#editor script').count()==0
     assert not errors, errors
-    page.evaluate('editor.discard()');browser.close()
-print('PASS: barra compacta, texto directo, comentario en sheet y etiqueta vinculada a producto')
+    assert page.evaluate("()=>{window.exitPromise=editor.discard();return document.querySelector('.plan-viewer-bar')?.classList.contains('is-leaving')}")
+    assert page.locator('body').evaluate("el=>!el.classList.contains('plan-editor-active')")
+    page.evaluate('exitPromise');browser.close()
+print('PASS: dock animado, color con opacidad, texto, comentario y etiqueta vinculada')
